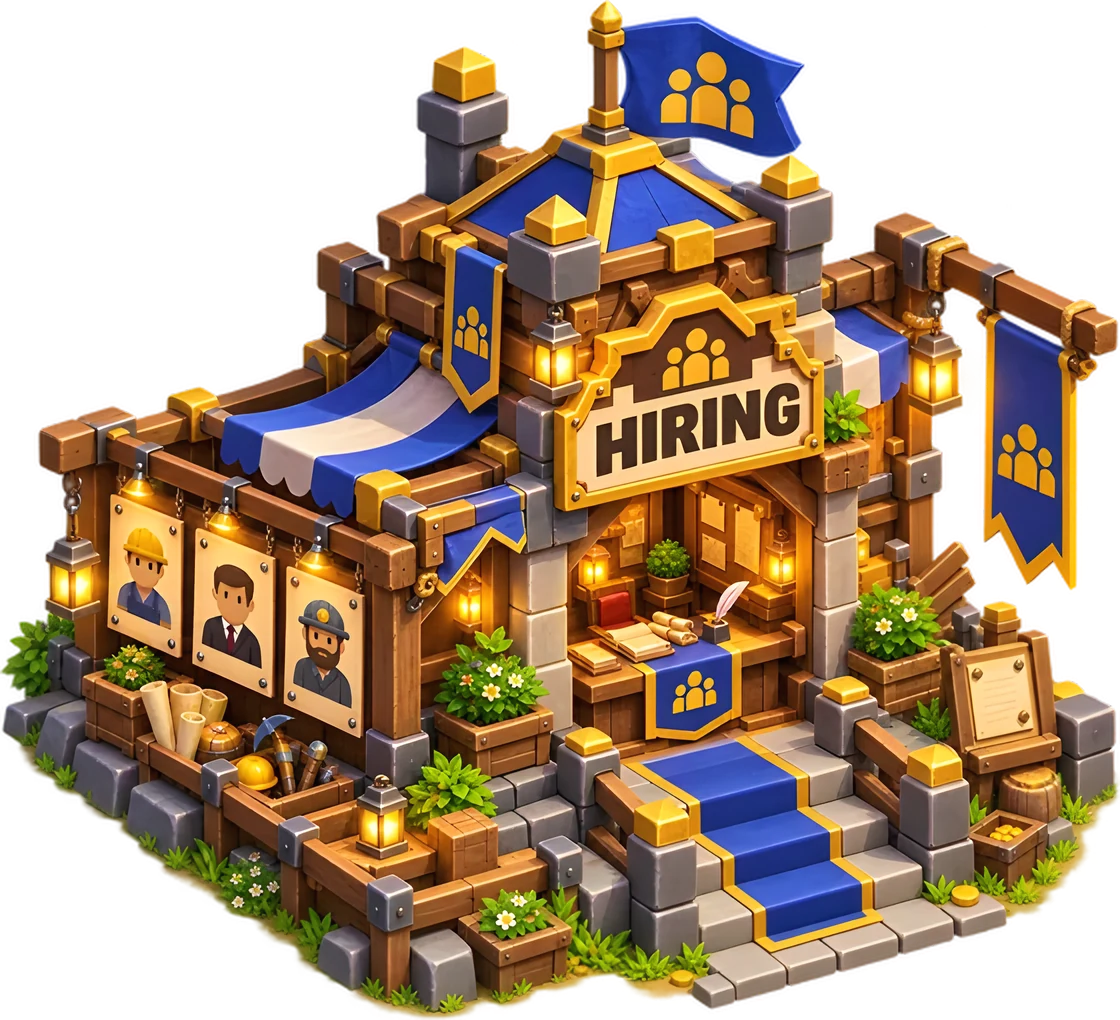
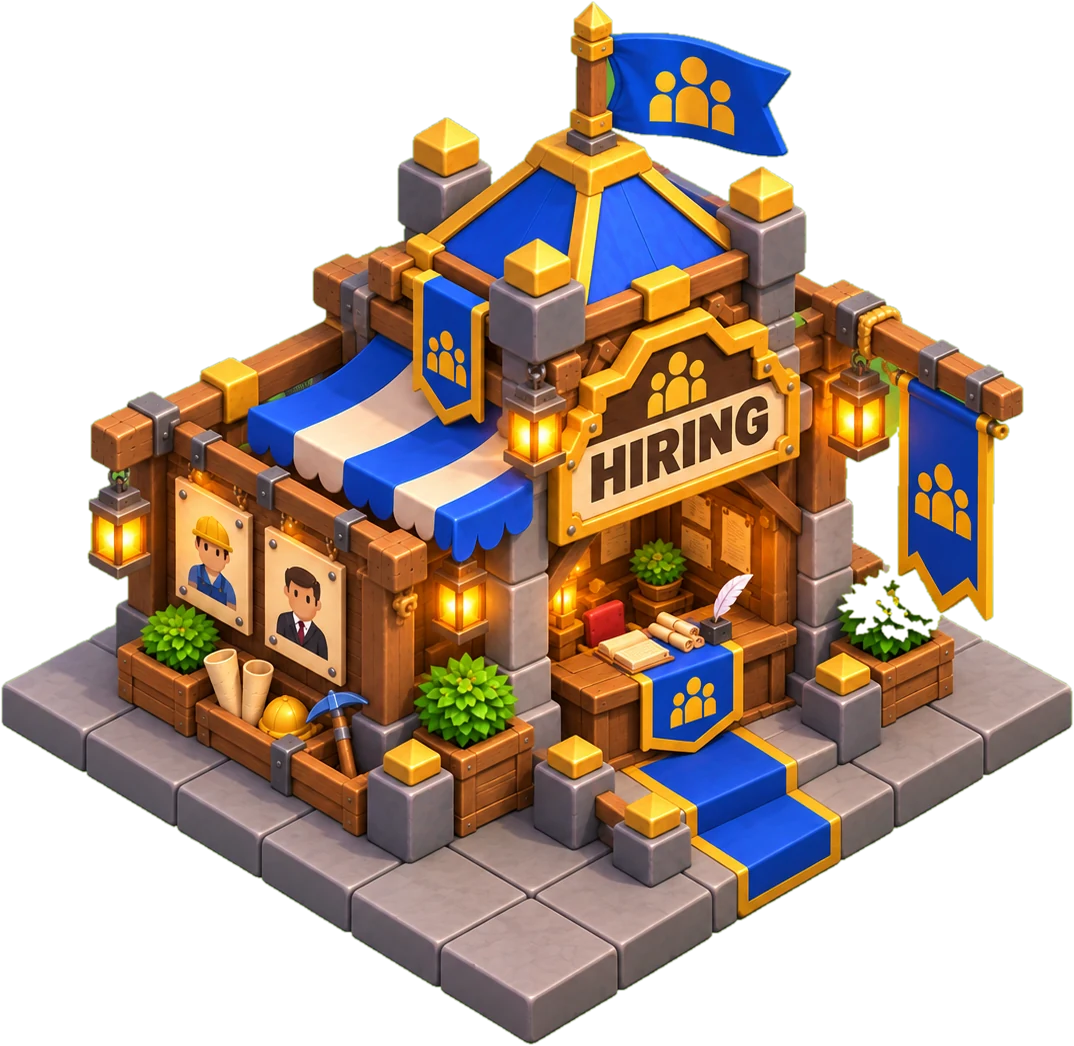
Nouveaux dessins des bâtiments calés pile sur 5 × 5, générateur, lisière en ligne, herbe
- Les dessins de l'équipe (Drive) remplacent les anciens sur la carte, dans le menu
  Bâtiments et sur l'écran d'accueil : détourés du damier vert, le pied de leur dalle
  de 5 × 5 pavés tombe pile sur le bord de l'emprise (plus de retrait).
- Nouveau bâtiment Générateur (prestige 0), sans rôle pour l'instant, pas proposé
  dans le prochain objectif.
- Le premier rang de la forêt est planté bien en ligne, au même écart.
- Petits détails sur l'herbe de la clairière (touffes, brins, fleurs, cailloux).
- Service worker en cache v6, doc mise à jour.

Claude-Session: https://claude.ai/code/session_01F5c49AaQNVmfr8LMRrLVrX

diff --git a/src/composants/ForetVillage.tsx b/src/composants/ForetVillage.tsx
@@ -1,7 +1,8 @@
 // La forêt autour de la clairière (21/10) : les arbres dessinés par l'équipe (12 sortes, en vue
-// isométrique, même angle que les bâtiments), plantés tout autour de la clairière. Près du bord,
-// ils sont plus espacés (une lisière naturelle), puis de plus en plus serrés. On ne peut pas y
-// aller : la forêt est hors de la grille.
+// isométrique, même angle que les bâtiments), plantés tout autour de la clairière. Le premier
+// rang (la lisière) est planté bien en ligne, à la même distance du bord et au même écart (22/10 :
+// avant, certains troncs avançaient plus que d'autres dans la clairière). Derrière, la forêt est
+// plus libre et de plus en plus serrée. On ne peut pas y aller : la forêt est hors de la grille.
 // Les arbres sont toujours plantés au même endroit (hasard à graine fixe) : la forêt ne change
 // pas d'une partie à l'autre.
 //
@@ -32,6 +33,12 @@ type Arbre = {
 // Combien de chances de tirer chaque sorte d'arbre (feuillus et sapins surtout, peu de palmiers).
 const POIDS_SORTES = [3, 3, 3, 2.5, 3, 3, 1.5, 1.5, 0.6, 0.6, 3, 1.5]
 
+// La lisière : à combien de cases du bord de la clairière poussent les troncs du premier rang, et
+// l'écart (en cases) entre deux arbres de ce rang. Les autres arbres restent derrière ce rang.
+const DISTANCE_LISIERE = 1.3
+const ECART_LISIERE = 2.2
+const RECUL_DERRIERE = 1.5
+
 function planterForet(): Arbre[] {
   const hasard = aleatoireAvecGraine(2026)
   const total = POIDS_SORTES.reduce((a, b) => a + b, 0)
@@ -46,6 +53,42 @@ function planterForet(): Arbre[] {
   const arbres: Arbre[] = []
   const n = TAILLE_GRILLE
   const pas = 1.55
+  // Planter un arbre dont le tronc est sur le point (x, y) de la grille, large de « taille » cases.
+  const planter = (x: number, y: number, taille: number, dehors: number) => {
+    const sorte = tirerSorte()
+    const miroir = hasard() < 0.5
+    const p = versEcran(x, y)
+    // Le pied de l'image sur le point (x, y), la largeur du pied égale à « taille » cases.
+    const image = ARBRES[sorte]
+    const echelle = (taille * 2 * DEMI_LARGEUR) / image.largeurPied
+    const piedX = miroir ? image.largeur - image.pied.x : image.pied.x
+    arbres.push({
+      sorte,
+      x,
+      y,
+      lointain: dehors > 9 ? 2 : dehors > 5 ? 1 : 0,
+      devant: x > n || y > n,
+      miroir,
+      gauche: p.x - piedX * echelle,
+      haut: p.y - image.pied.y * echelle,
+      echelle,
+    })
+  }
+  // Le premier rang, tout autour de la clairière : un carré de troncs à DISTANCE_LISIERE du bord,
+  // un arbre tous les ECART_LISIERE (le côté est découpé en parts égales, pour que les coins
+  // tombent juste). Seule la taille et la sorte changent d'un arbre à l'autre.
+  const debut = -DISTANCE_LISIERE
+  const fin = n + DISTANCE_LISIERE
+  const nbParCote = Math.round((fin - debut) / ECART_LISIERE)
+  const ecart = (fin - debut) / nbParCote
+  for (let i = 0; i < nbParCote; i++) {
+    const t = debut + i * ecart
+    const taille = () => 1.85 + hasard() * 0.3
+    planter(t, debut, taille(), DISTANCE_LISIERE) // le bord du haut à droite
+    planter(fin, t, taille(), DISTANCE_LISIERE) // en bas à droite
+    planter(fin - (t - debut), fin, taille(), DISTANCE_LISIERE) // en bas à gauche
+    planter(debut, fin - (t - debut), taille(), DISTANCE_LISIERE) // en haut à gauche
+  }
   // Les cases à couvrir : tout ce que la caméra peut voir (les 4 coins de ses limites, avec une
   // marge pour les arbres qui dépassent au-dessus de leur pied).
   const { x0, y0, x1, y1 } = LIMITES_CAMERA
@@ -60,33 +103,17 @@ function planterForet(): Arbre[] {
       const y = gy + (hasard() - 0.5) * 1.1
       // De combien de cases on est sorti de la clairière.
       const dehors = Math.max(-x, -y, x - n, y - n)
-      if (dehors < 0.9) continue
-      // La lisière : peu d'arbres tout près du bord, puis de plus en plus. Au fond de la forêt,
-      // des arbres plus gros et moins nombreux (on n'en voit que le haut).
+      // Rien devant la lisière : les autres arbres restent derrière le premier rang.
+      if (dehors < DISTANCE_LISIERE + RECUL_DERRIERE) continue
+      // Juste derrière la lisière, un peu moins d'arbres, puis de plus en plus. Au fond de la
+      // forêt, des arbres plus gros et moins nombreux (on n'en voit que le haut).
       const loin = dehors > 6
-      const chance = dehors < 2 ? 0.3 : dehors < 3.5 ? 0.65 : loin ? 0.42 : 0.95
+      const chance = dehors < 3.5 ? 0.65 : loin ? 0.42 : 0.95
       if (hasard() > chance) continue
       // Seulement là où la caméra peut voir (un arbre haut dépasse au-dessus de son pied).
       const p = versEcran(x, y)
       if (p.x < x0 - 80 || p.x > x1 + 80 || p.y < y0 - 20 || p.y > y1 + 160) continue
-      const sorte = tirerSorte()
-      const taille = loin ? 2.5 + hasard() * 0.8 : 1.7 + hasard() * 0.7
-      const miroir = hasard() < 0.5
-      // Le pied de l'image sur le point (x, y), la largeur du pied égale à « taille » cases.
-      const image = ARBRES[sorte]
-      const echelle = (taille * 2 * DEMI_LARGEUR) / image.largeurPied
-      const piedX = miroir ? image.largeur - image.pied.x : image.pied.x
-      arbres.push({
-        sorte,
-        x,
-        y,
-        lointain: dehors > 9 ? 2 : dehors > 5 ? 1 : 0,
-        devant: x > n || y > n,
-        miroir,
-        gauche: p.x - piedX * echelle,
-        haut: p.y - image.pied.y * echelle,
-        echelle,
-      })
+      planter(x, y, loin ? 2.5 + hasard() * 0.8 : 1.7 + hasard() * 0.7, dehors)
     }
   }
   // Du fond vers l'avant : un arbre plus bas sur l'écran est dessiné par-dessus.

diff --git a/src/composants/DessinsVillage.tsx b/src/composants/DessinsVillage.tsx
@@ -5,6 +5,7 @@
 // Tout est dessiné dans les coordonnées de l'image du monde (voir iso.ts).
 
 import { memo, type ReactNode } from 'react'
+import { aleatoireAvecGraine } from '../jeu/aleatoire'
 import { TAILLE_GRILLE, type IdDecoration } from '../jeu/donnees'
 import { CALAGES, DEMI_HAUTEUR, DEMI_LARGEUR, LIMITES_TERRAIN, pointSurSprite, versEcran, type Point } from './iso'
 
@@ -60,6 +61,64 @@ function losangeClairiere(marge: number): string {
   return [versEcran(-marge, -marge), versEcran(n + marge, -marge), versEcran(n + marge, n + marge), versEcran(-marge, n + marge)].map((p) => `${p.x},${p.y}`).join(' ')
 }
 
+// Les petits détails sur l'herbe de la clairière (22/10) : des touffes d'herbe, quelques brins
+// plus clairs, et de temps en temps une petite fleur ou un caillou, pour que le damier ait l'air
+// vivant. Toujours aux mêmes places (hasard à graine fixe). Ils sont au sol : les bâtiments, les
+// chemins et les personnages passent par-dessus.
+type Detail = { sorte: 'touffe' | 'brins' | 'fleur' | 'caillou'; x: number; y: number; echelle: number; miroir: boolean; couleur: string }
+
+const COULEURS_FLEURS = ['#ffffff', '#ffe066', '#ff8fb1', '#c9a2ff']
+
+function semerDetails(): Detail[] {
+  const hasard = aleatoireAvecGraine(2210)
+  const details: Detail[] = []
+  const n = TAILLE_GRILLE
+  for (let cx = 0; cx < n; cx++) {
+    for (let cy = 0; cy < n; cy++) {
+      // Environ deux détails pour trois cases, posés n'importe où dans la case.
+      if (hasard() > 0.65) continue
+      const x = cx + 0.1 + hasard() * 0.8
+      const y = cy + 0.1 + hasard() * 0.8
+      const tirage = hasard()
+      const sorte = tirage < 0.6 ? 'touffe' : tirage < 0.88 ? 'brins' : tirage < 0.96 ? 'fleur' : 'caillou'
+      const e = versEcran(x, y)
+      details.push({
+        sorte,
+        x: e.x,
+        y: e.y,
+        echelle: 0.8 + hasard() * 0.45,
+        miroir: hasard() < 0.5,
+        couleur: COULEURS_FLEURS[Math.floor(hasard() * COULEURS_FLEURS.length)],
+      })
+    }
+  }
+  // Du fond vers l'avant, pour qu'une touffe plus basse passe devant.
+  return details.sort((a, b) => a.y - b.y)
+}
+
+const DETAILS_HERBE = semerDetails()
+
+// Les dessins des détails (centrés sur leur pied, en pixels du monde).
+function DetailsHerbe() {
+  return (
+    <g className="details-herbe">
+      {DETAILS_HERBE.map((d, i) => {
+        const transformation = `translate(${d.x.toFixed(1)} ${d.y.toFixed(1)}) scale(${(d.miroir ? -1 : 1) * d.echelle} ${d.echelle})`
+        if (d.sorte === 'touffe') return <use key={i} href="#touffe-herbe" transform={transformation} />
+        if (d.sorte === 'brins') return <use key={i} href="#brins-herbe" transform={transformation} />
+        if (d.sorte === 'caillou') return <use key={i} href="#caillou-herbe" transform={transformation} />
+        return (
+          <g key={i} transform={transformation}>
+            <use href="#tige-fleur" />
+            <circle cx="0.6" cy="-5.2" r="1.5" fill={d.couleur} stroke="rgb(0 0 0 / 0.25)" strokeWidth="0.4" />
+            <circle cx="0.6" cy="-5.2" r="0.55" fill="#f2b33d" />
+          </g>
+        )
+      })}
+    </g>
+  )
+}
+
 // Tout le sol, dessiné une seule fois (il ne change jamais). Du plus loin au plus près :
 // - une herbe sombre partout (le sous-bois, sous les arbres de la forêt) ;
 // - une large auréole d'herbe plus claire autour de la clairière, aux bords très flous ;
@@ -80,6 +139,14 @@ export const TerrainVillage = memo(function TerrainVillage() {
           <rect x="1" width="1" height="1" fill={VERT_FONCE} />
           <rect y="1" width="1" height="1" fill={VERT_FONCE} />
         </pattern>
+        {/* Les petits détails de l'herbe (voir DetailsHerbe) */}
+        <path id="touffe-herbe" d="M-3.6 0 Q-3.4 -3 -5 -5.4 Q-2.2 -3.6 -1.6 0 Z M-1.4 0 Q-1 -4.4 0.2 -7 Q0.8 -3.8 1 0 Z M0.8 0 Q2 -3.2 4.6 -4.8 Q2.8 -2.4 2.8 0 Z" fill="#5f9a2a" />
+        <path id="brins-herbe" d="M-1.6 0 Q-1.6 -2.6 -2.8 -4.4 M0 0 Q0.2 -3 1 -5.2 M1.4 0 Q2 -1.8 3.2 -2.8" stroke="#a5d65a" strokeWidth="0.8" strokeLinecap="round" fill="none" />
+        <path id="tige-fleur" d="M0 0 Q-0.2 -2.6 0.6 -5 M0 -1.6 Q-1.6 -2.2 -2.2 -1.2" stroke="#4e8a24" strokeWidth="0.7" strokeLinecap="round" fill="none" />
+        <g id="caillou-herbe">
+          <ellipse cx="0" cy="-0.6" rx="2.4" ry="1.3" fill="#9a958c" />
+          <ellipse cx="-0.5" cy="-1" rx="1.2" ry="0.55" fill="#c4bfb5" />
+        </g>
         <filter id="flou-aureole" x="-30%" y="-30%" width="160%" height="160%">
           <feGaussianBlur stdDeviation="38" />
         </filter>
@@ -95,6 +162,7 @@ export const TerrainVillage = memo(function TerrainVillage() {
       <polygon points={losangeClairiere(5)} fill="#4f8a2a" filter="url(#flou-aureole)" />
       <polygon points={losangeClairiere(1.5)} fill="#6aa534" filter="url(#flou-bord-damier)" />
       <polygon points={losangeClairiere(1.6)} fill="url(#motif-damier)" mask="url(#masque-damier)" />
+      <DetailsHerbe />
     </svg>
   )
 })

diff --git a/src/composants/iso.ts b/src/composants/iso.ts
@@ -62,19 +62,24 @@ export function profondeur(x: number, y: number): number {
 // bâtiment ne déborde pas de ses 5 × 5 cases, comme dans Clash of Clans).
 type Calage = { largeur: number; hauteur: number; gauche: Point; bas: Point; droite: Point; retrait?: number }
 
-// Les bâtiments de 5 × 5 sont dessinés un peu en retrait de leur emprise.
-export const RETRAIT_BATIMENT = 0.3
+// De combien de cases on rentre un bâtiment de 5 × 5 dans son emprise. Depuis le 22/10, les dessins
+// de l'équipe sont posés sur une dalle de 5 × 5 pavés : le pied de cette dalle tombe pile sur le
+// bord de l'emprise, sans retrait ni débordement sur les cases voisines.
+export const RETRAIT_BATIMENT = 0
 
+// Les coins mesurés sont ceux du pied de la dalle de pavés (là où elle touche l'herbe), mesurés
+// par un script sur les images détourées (22/10).
 export const CALAGES: Record<IdBatiment, Calage> = {
   // La mine (10 × 10) : l'image fournie, upscalée et rendue plus nette, sans la redresser (21/10).
   puits: { largeur: 2109, hauteur: 1346, gauche: { x: 9, y: 722 }, bas: { x: 1259, y: 1336 }, droite: { x: 2099, y: 766 }, retrait: 0 },
-  bazar: { largeur: 1120, hauteur: 1020, gauche: { x: 2, y: 726 }, bas: { x: 458, y: 1016 }, droite: { x: 1116, y: 718 } },
-  enchanteur: { largeur: 1120, hauteur: 1022, gauche: { x: 0, y: 704 }, bas: { x: 520, y: 1020 }, droite: { x: 1118, y: 678 } },
-  foreuse: { largeur: 1120, hauteur: 1130, gauche: { x: 2, y: 752 }, bas: { x: 568, y: 1128 }, droite: { x: 1116, y: 792 } },
-  forgeron: { largeur: 1120, hauteur: 1016, gauche: { x: 4, y: 686 }, bas: { x: 444, y: 1014 }, droite: { x: 1116, y: 706 } },
-  marche: { largeur: 1120, hauteur: 914, gauche: { x: 2, y: 636 }, bas: { x: 480, y: 910 }, droite: { x: 1118, y: 562 } },
-  employes: { largeur: 1120, hauteur: 1020, gauche: { x: 2, y: 670 }, bas: { x: 436, y: 1014 }, droite: { x: 1114, y: 732 } },
-  prestige: { largeur: 1120, hauteur: 1030, gauche: { x: 2, y: 712 }, bas: { x: 452, y: 1026 }, droite: { x: 1114, y: 788 } },
+  bazar: { largeur: 1037, hauteur: 945, gauche: { x: 2, y: 652 }, bas: { x: 520, y: 942 }, droite: { x: 1034, y: 653 } },
+  employes: { largeur: 1074, hauteur: 1046, gauche: { x: 2, y: 724 }, bas: { x: 530, y: 1043 }, droite: { x: 1071, y: 726 } },
+  enchanteur: { largeur: 1111, hauteur: 1013, gauche: { x: 2, y: 682 }, bas: { x: 548, y: 1010 }, droite: { x: 1108, y: 687 } },
+  foreuse: { largeur: 971, hauteur: 913, gauche: { x: 2, y: 608 }, bas: { x: 483, y: 910 }, droite: { x: 968, y: 612 } },
+  forgeron: { largeur: 1091, hauteur: 994, gauche: { x: 2, y: 670 }, bas: { x: 546, y: 991 }, droite: { x: 1088, y: 673 } },
+  generateur: { largeur: 1107, hauteur: 1040, gauche: { x: 2, y: 708 }, bas: { x: 553, y: 1037 }, droite: { x: 1104, y: 711 } },
+  marche: { largeur: 1089, hauteur: 1027, gauche: { x: 2, y: 703 }, bas: { x: 512, y: 1024 }, droite: { x: 1073, y: 702 } },
+  prestige: { largeur: 1084, hauteur: 1066, gauche: { x: 2, y: 746 }, bas: { x: 538, y: 1063 }, droite: { x: 1081, y: 756 } },
 }
 
 // La transformation CSS (matrix) qui pose l'image sur l'emprise (x, y, taille), SANS la déformer
@@ -118,6 +123,7 @@ export const IMAGES_BATIMENTS: Record<IdBatiment, string> = {
   marche: '/images/batiments/marche.webp',
   employes: '/images/batiments/employes.webp',
   prestige: '/images/batiments/prestige.webp',
+  generateur: '/images/batiments/generateur.webp',
 }
 
 // La hauteur (en pixels) de ce qui dépasse au-dessus d'une décoration (pour sa boîte SVG).

diff --git a/src/jeu/donnees.ts b/src/jeu/donnees.ts
@@ -537,7 +537,7 @@ export function dureeCasse(durete: number, profondeur: number, vitesse: number, 
 export const TAILLE_GRILLE = 60
 
 // Les bâtiments du village (les mêmes identifiants que les anciens stands, pour les objectifs).
-export type IdBatiment = 'puits' | 'marche' | 'forgeron' | 'bazar' | 'enchanteur' | 'foreuse' | 'employes' | 'prestige'
+export type IdBatiment = 'puits' | 'marche' | 'forgeron' | 'bazar' | 'enchanteur' | 'foreuse' | 'employes' | 'prestige' | 'generateur'
 
 export type InfoBatiment = {
   id: IdBatiment
@@ -635,10 +635,22 @@ export const BATIMENTS: Record<IdBatiment, InfoBatiment> = {
     prestige: 2,
     cout: { argent: 3000, materiaux: { pierre: 80, fer: 30 } },
   },
+  // Ajouté le 22/10 avec son dessin : il ne sert encore à rien (son rôle viendra plus tard). On
+  // peut déjà le poser ; il n'est pas proposé dans le « prochain objectif » (voir objectifs.ts).
+  generateur: {
+    id: 'generateur',
+    nom: 'Générateur',
+    emoji: '⚡',
+    description: 'Une machine à éclairs. À quoi servira-t-elle ? Bientôt…',
+    taille: 5,
+    porte: 'droite',
+    prestige: 0,
+    cout: { argent: 1000, materiaux: { pierre: 40, fer: 15 } },
+  },
 }
 
 // L'ordre du menu « Bâtiments » (la mine est déjà posée au début de la partie).
-export const LISTE_BATIMENTS: IdBatiment[] = ['marche', 'forgeron', 'bazar', 'enchanteur', 'prestige', 'foreuse', 'employes']
+export const LISTE_BATIMENTS: IdBatiment[] = ['marche', 'forgeron', 'bazar', 'enchanteur', 'prestige', 'foreuse', 'employes', 'generateur']
 
 // Les rails (prestige 2) : 10 fer par case. Une ligne de rails continue de la mine au marché
 // fait voyager les minerais en wagonnet, 3 fois plus vite qu'à pied.

diff --git a/src/jeu/objectifs.ts b/src/jeu/objectifs.ts
@@ -65,6 +65,8 @@ export function achatsPossibles(etat: EtatJeu): AchatPossible[] {
   const pose = (id: IdBatiment) => batimentPose(etat.village, id) !== null
 
   for (const id of LISTE_BATIMENTS) {
+    // Le générateur ne sert encore à rien : on ne pousse pas le joueur à le construire.
+    if (id === 'generateur') continue
     if (batimentDebloque(etat, id) && !pose(id)) achats.push({ stand: id, nom: `Construire : ${BATIMENTS[id].nom}`, cout: BATIMENTS[id].cout, construction: true })
   }
 
@@ -178,6 +180,7 @@ const NOMS_STANDS: Record<IdStand, string> = {
   enchanteur: 'à l’enchanteur',
   foreuse: 'à la foreuse',
   employes: 'au Personnel',
+  generateur: 'au générateur',
 }
 
 // Le premier minerai qui manque pour un achat (null s'il ne manque rien).

diff --git a/src/jeu/village.test.ts b/src/jeu/village.test.ts
@@ -80,7 +80,7 @@ describe('le village vu du ciel', () => {
 
   it('la foreuse et le Personnel se débloquent avec le prestige, avec une pastille « Nouveau »', () => {
     const p0 = partie(0)
-    expect(nouveautesBatiments(p0)).toEqual(['marche', 'forgeron', 'bazar', 'enchanteur', 'prestige'])
+    expect(nouveautesBatiments(p0)).toEqual(['marche', 'forgeron', 'bazar', 'enchanteur', 'prestige', 'generateur'])
     marquerBatimentsVus(p0)
     expect(nouveautesBatiments(p0)).toEqual([])
     p0.argent = 100_000

diff --git a/public/sw.js b/public/sw.js
@@ -9,7 +9,7 @@
 // - Les autres fichiers du site (icônes, manifeste, images du village) : le cache d'abord, puis on le met à jour.
 // - Supabase (comptes, classement) n'est jamais mis en cache : ce n'est pas notre site.
 
-const CACHE = 'idle-miner-v5'
+const CACHE = 'idle-miner-v6'
 // Les images du village vu du ciel (20/10) sont rangées dès l'installation : sans elles, le
 // village serait vide hors ligne. (21/10 : images en haute définition et arbres, d'où le cache v4.)
 const IMAGES_DU_VILLAGE = [

diff --git a/src/composants/SceneAccueil.tsx b/src/composants/SceneAccueil.tsx
@@ -39,6 +39,7 @@ const BATIMENTS_SCENE: BatimentPose[] = [
   { id: 'prestige', x: 33, y: 10, miroir: false },
   { id: 'bazar', x: 43, y: 14, miroir: false },
   { id: 'foreuse', x: 41, y: 32, miroir: false },
+  { id: 'generateur', x: 36, y: 4, miroir: false },
 ]
 
 const DECORATIONS_SCENE: { id: IdDecoration; x: number; y: number; miroir?: boolean }[] = [

diff --git a/src/jeu/employes.ts b/src/jeu/employes.ts
@@ -668,6 +668,7 @@ const DESTINATIONS: Record<IdBatiment, string> = {
   enchanteur: 'se promène',
   foreuse: 'se promène',
   prestige: 'se promène',
+  generateur: 'se promène',
 }
 
 // Ce que fait un mineur, en quelques mots (pour l'affichage), avec le temps qu'il lui reste.

diff --git a/src/jeu/objectifs.test.ts b/src/jeu/objectifs.test.ts
@@ -16,6 +16,7 @@ const PLACES: Record<Exclude<IdBatiment, 'puits'>, [number, number]> = {
   prestige: [9, 9],
   foreuse: [3, 3],
   employes: [30, 30],
+  generateur: [40, 40],
 }
 
 function poser(etat: EtatJeu, ids: (keyof typeof PLACES)[]): void {

diff --git a/docs/jeu/village.md b/docs/jeu/village.md
@@ -23,7 +23,8 @@
 - **Le terrain est dessiné par le jeu** (21/10, `TerrainVillage` dans `DessinsVillage.tsx`), il n'y a plus d'image de décor qu'on agrandit (elle devenait floue) :
   - **le sol de la clairière est un damier** vert clair / vert foncé, une case sur deux, comme le sol de Clash of Clans. Le quadrillage n'est jamais tracé : on devine les cases grâce au damier, et elles ne servent qu'à poser les bâtiments ;
   - **entre le damier et la forêt, une transition douce** : le bord du damier s'efface sur une case dans une herbe un peu plus foncée, puis une large auréole d'herbe se fond dans le sous-bois sombre ;
-  - **la forêt** : les **12 arbres dessinés par l'équipe** (feuillus, sapins, palmiers, bambous, saules…), upscalés par IA et détourés (`public/images/village/arbres/`), au même angle que les bâtiments (leur petite dalle d'herbe a le même rapport que les cases). Le jeu en plante environ 1 300 tout autour de la clairière, toujours aux mêmes places (hasard à graine fixe, `ForetVillage.tsx`) : clairsemés tout près du bord (une lisière naturelle, une case d'herbe libre avant le premier arbre), puis serrés, et au fond de plus gros arbres un peu plus sombres (effet de profondeur). Les arbres du bas de la carte passent devant les bâtiments et les personnages. Pour rester fluide, ils sont dessinés dans des tuiles de « toile » (canvas) de 384 pixels du monde, redessinées plus finement après un zoom pour celles qu'on voit ;
+  - **la forêt** : les **12 arbres dessinés par l'équipe** (feuillus, sapins, palmiers, bambous, saules…), upscalés par IA et détourés (`public/images/village/arbres/`), au même angle que les bâtiments (leur petite dalle d'herbe a le même rapport que les cases). Le jeu en plante environ 1 300 tout autour de la clairière, toujours aux mêmes places (hasard à graine fixe, `ForetVillage.tsx`) : le **premier rang** (la lisière) est planté **bien en ligne** (22/10) : tous les troncs à la même distance du bord (1,3 case, `DISTANCE_LISIERE`), au même écart (environ 2,2 cases, `ECART_LISIERE`, les coins tombent juste) ; derrière ce rang (au moins 1,5 case plus loin), les arbres sont plus libres et de plus en plus serrés, et au fond de plus gros arbres un peu plus sombres (effet de profondeur). Les arbres du bas de la carte passent devant les bâtiments et les personnages. Pour rester fluide, ils sont dessinés dans des tuiles de « toile » (canvas) de 384 pixels du monde, redessinées plus finement après un zoom pour celles qu'on voit ;
+  - **des petits détails sur l'herbe** (22/10, `DetailsHerbe` dans `DessinsVillage.tsx`) : des touffes d'herbe foncée, des brins plus clairs, de temps en temps une petite fleur (blanche, jaune, rose ou mauve) ou un caillou, environ deux pour trois cases, toujours aux mêmes places (hasard à graine fixe). Ils sont au sol : bâtiments, chemins et personnages passent par-dessus ;
   - **la caméra est bornée** (`LIMITES_CAMERA` dans `iso.ts`) : on ne peut ni la faire glisser ni dézoomer au-delà de la clairière et d'une bande de forêt. On ne voit donc jamais de bord de décor.
 - Une case fait 33 pixels du monde de large sur 19 de haut (`DEMI_LARGEUR` = 16,5 et `DEMI_HAUTEUR` = 9,57 dans `iso.ts`, des constantes qui ne dépendent plus de la taille de la grille). Le monde fait donc 2 262 × 1 407 pixels (`LARGEUR_MONDE`, `HAUTEUR_MONDE`).
 - **Tailles** : chaque bâtiment fait **5 × 5 cases**, la **mine 10 × 10**. Les rails, les chemins et les petites décorations font **1 case**, les arbres, la fontaine et la statue **2 × 2**.
@@ -52,6 +53,9 @@ Une pastille **« Nouveau ! »** marque un bâtiment tout juste débloqué, jusq
 | 🌸 Arbre de prestige | 800 $ + 30 pierre + 10 fer | prestige 0 | face avant droite |
 | ⚙ Foreuse | 1 500 $ + 50 pierre + 20 fer | prestige 1 | face avant gauche |
 | 👷 Personnel | 3 000 $ + 80 pierre + 30 fer | prestige 2 | face avant droite |
+| ⚡ Générateur | 1 000 $ + 40 pierre + 15 fer | prestige 0 | face avant droite |
+
+Le **générateur** (ajouté le 22/10 avec son dessin) ne sert encore à rien : son rôle sera décidé plus tard. On peut déjà le poser, mais il n'est jamais proposé dans le « prochain objectif ».
 
 - Les matériaux se prennent dans le **sac**. La **pierre peut se payer en roche dure** (la pierre d'abord, puis la roche dure) : plus bas dans la mine il n'y a plus de pierre, et on ne doit jamais être bloqué (`pierreDisponible`, `payerConstruction`).
 - Chaque bâtiment ne se construit **qu'une fois** et reste pour toujours (même au prestige).
@@ -70,7 +74,7 @@ Le bouton **✏ Modifier** permet de toucher l'élément à changer (bâtimen
 
 Si on pose un bâtiment sur le hamster, il est poussé sur la case libre la plus proche.
 
-**Les bâtiments font bien 5 × 5 cases** : leur image est dessinée un peu en retrait de leur emprise (0,3 case de chaque côté, `RETRAIT_BATIMENT`), pour qu'elle ne déborde pas sur les cases voisines du damier. Depuis le 21/10, elle n'est **plus jamais déformée** : on l'agrandit d'un seul coup pour que sa largeur tienne dans l'emprise (avant, on forçait les trois coins du pied du dessin sur ceux de l'emprise, ce qui penchait et tassait les bâtiments). Une ombre douce au sol, sous chaque bâtiment, le pose sur l'herbe.
+**Les bâtiments font pile 5 × 5 cases** : depuis le 22/10, chaque dessin de l'équipe est posé sur une **dalle de 5 × 5 pavés**, et le pied de cette dalle (là où elle touche l'herbe) tombe **exactement sur le bord de l'emprise** : pas de retrait, rien qui déborde sur les cases voisines (`RETRAIT_BATIMENT` = 0). Les coins du pied de la dalle sont mesurés par un script sur les images détourées (`CALAGES` dans `iso.ts`). Depuis le 21/10, elle n'est **plus jamais déformée** : on l'agrandit d'un seul coup pour que sa largeur tienne dans l'emprise (avant, on forçait les trois coins du pied du dessin sur ceux de l'emprise, ce qui penchait et tassait les bâtiments). Une ombre douce au sol, sous chaque bâtiment, le pose sur l'herbe.
 
 ## 4. Les rails et le wagonnet (prestige 2)
 

diff --git a/CONTEXTE.md b/CONTEXTE.md
@@ -217,3 +217,4 @@ L'état en est à la **v18** (`VERSION_ETAT = 18`, depuis le village vu du ciel 
 - **2026-10-21** : village plus net et plein écran (retours de l'utilisateur). Images upscalées par IA (Real-ESRGAN lancé sans PyTorch : réseau reconstruit en ONNX et exécuté avec onnxruntime) : bâtiments en 1 120 px (le double), nouvelle **mine** à partir de l'image fournie (redressée en perspective sur 10 × 10 cases, détourée) avec ce qui évolue par-dessus (une cage d'ascenseur par ascenseur, fond du trou qui s'assombrit, panneau de profondeur). **Sol en damier** vert clair / vert foncé façon Clash of Clans, quadrillage jamais tracé ; **forêt qui continue** tout autour (tuile sans raccord fabriquée avec la forêt du décor), plus de bande floue ; caméra bornée (`LIMITES_CAMERA`). Bâtiments dessinés en retrait dans leurs 5 × 5 cases. **Placement en deux temps** (un clic fixe le bâtiment, puis « Construire ici »). Un bâtiment s'ouvre dès qu'on passe à moins de 1,3 case, de n'importe quel côté (on marche jusqu'au côté le plus proche). **Plein écran** : la carte prend toute la fenêtre, boutons du coin en haut à gauche (monde, stats, succès, aide, réglages), bandeau en haut à droite, panneau à droite, gros boutons ronds en bas ; dans la mine, le sac s'ouvre avec 🎒 sur téléphone. Service worker en cache v3.
 - **2026-10-21** : bâtiments plus jamais déformés (agrandis d'un seul coup, largeur calée sur leurs 5 × 5 cases : ils étaient penchés et tassés) avec une ombre au sol ; **vraie forêt** avec les 12 arbres dessinés par l'équipe (upscalés et détourés, même angle que les bâtiments) : environ 1 300 arbres plantés à graine fixe, clairsemés en lisière puis serrés, plus sombres au fond, dessinés dans des tuiles de canvas (fluide, et redessinées nettes après un zoom), les arbres du bas devant les bâtiments ; **transition douce** damier → herbe → forêt ; le navigateur ne zoome plus la page en jeu (les boutons restaient grossis) ; la carte n'est plus floue après un zoom (couche `will-change` remise après chaque zoom). Service worker en cache v4.
 - **2026-10-21** : **personnages en images** tirées des planches de l'équipe (vues devant, derrière, gauche et droite détourées, bottes nettoyées à la main, casque des mineurs à la couleur de leur rareté, `sprites.ts`) : au village, l'image change selon le sens de la marche (de 3/4 vers la droite ou la gauche, de dos, de face à l'arrêt), et dans la mine en coupe (de profil en creusant, de dos sur l'échelle). Pas de vrais modèles 3D : ce sont les 4 vues des planches. Le joueur n'a pas encore sa planche : il prend celle du mineur (casque jaune) et ses tenues ne se voient plus que dans l'aperçu du Bazar. **Mine** jamais déformée (plus de redressement en perspective : posée comme les autres bâtiments) et plus nette (masque flou, contraste) ; cages et panneau calés sur l'image (`pointSurSprite`). **Clairière de 60 × 60 cases** (+20) : la mine reste au milieu (cases 25 à 34), les parties de la version 18 glissent de 10 cases (migration). Sauvegarde v19.
+- **2026-10-22** : **nouveaux dessins des bâtiments** (Google Drive de l'équipe) sur la carte, dans le menu Bâtiments et sur l'écran d'accueil : chacun est posé sur une dalle de 5 × 5 pavés, détourée du damier vert, et le pied de la dalle tombe pile sur le bord de ses 5 × 5 cases (plus de retrait, rien sur les cases voisines). Nouveau bâtiment **⚡ Générateur** (prestige 0, 1 000 $ + 40 pierre + 15 fer), qui ne sert encore à rien (son rôle viendra plus tard, pas proposé dans le prochain objectif). **Lisière de la forêt bien en ligne** (tous les troncs du premier rang à la même distance du bord, au même écart). **Petits détails sur l'herbe** de la clairière (touffes, brins, fleurs, cailloux). Service worker en cache v6.
